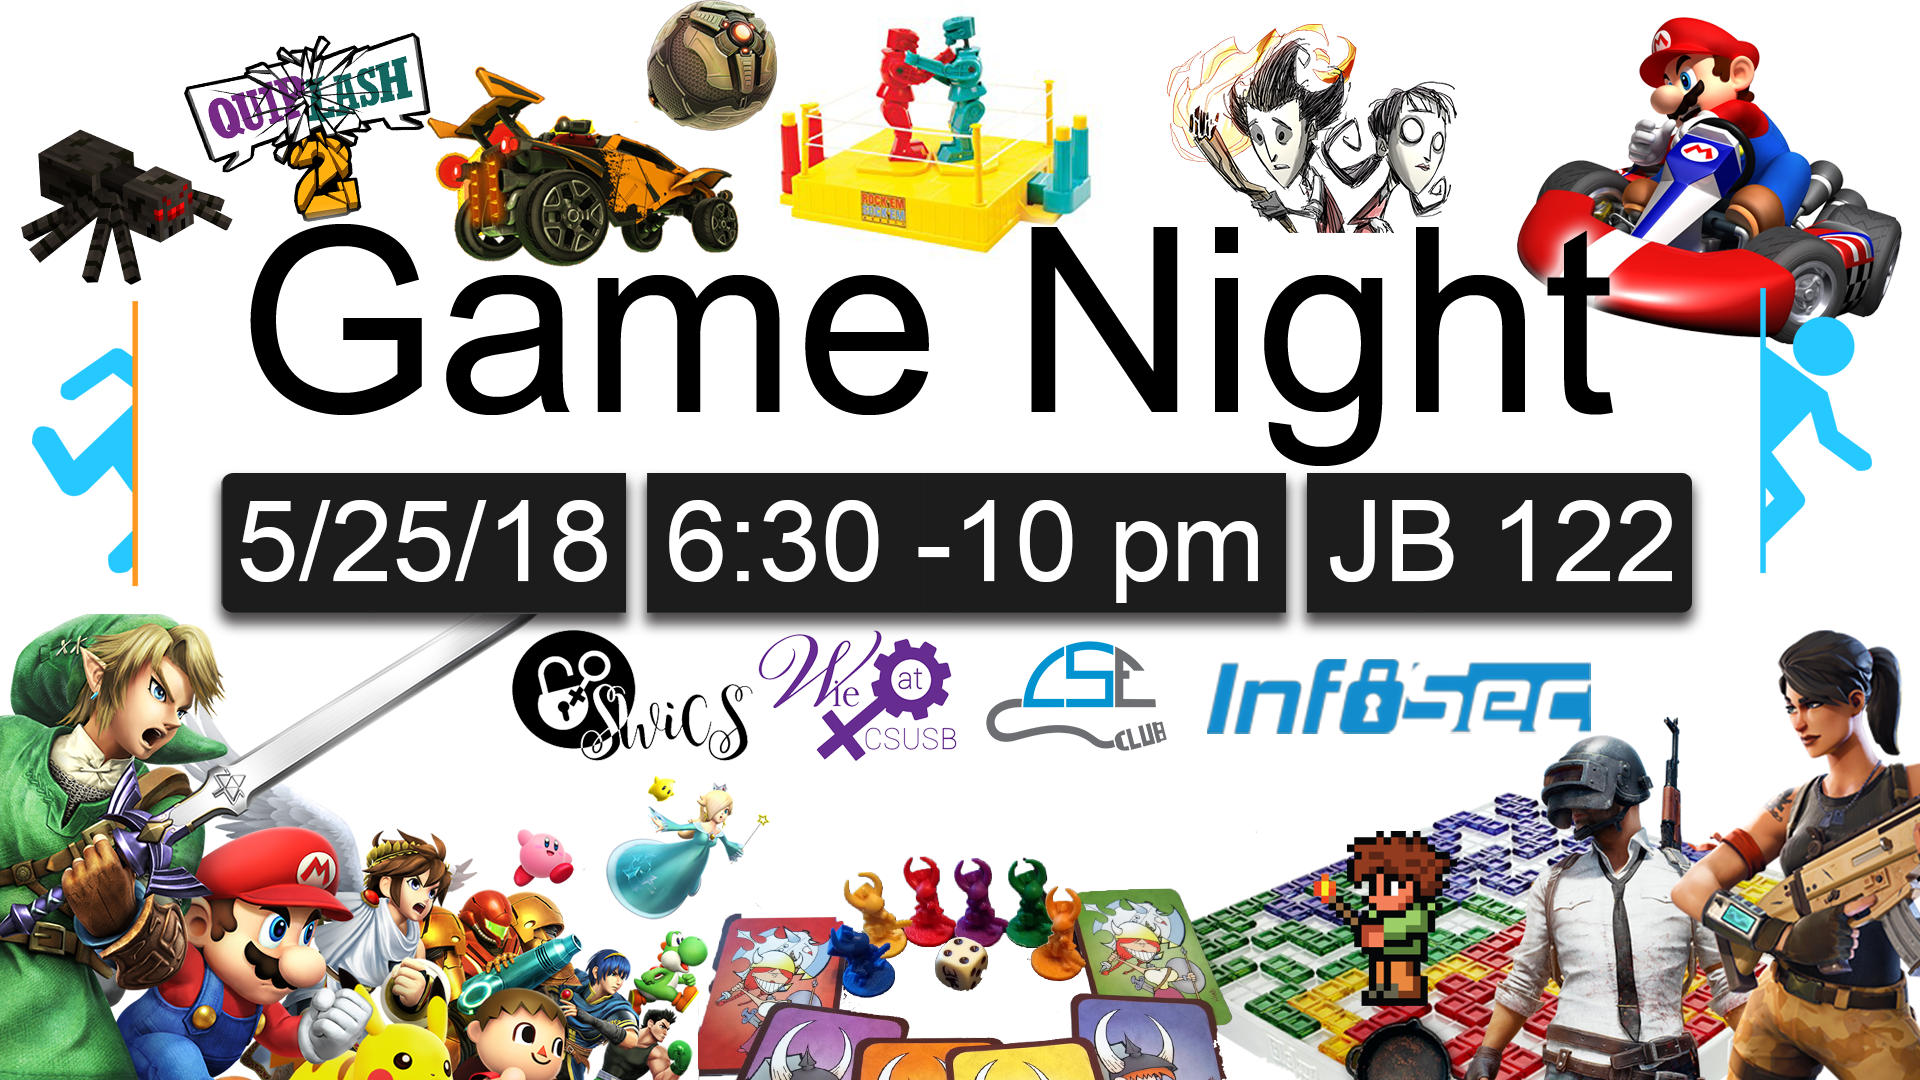
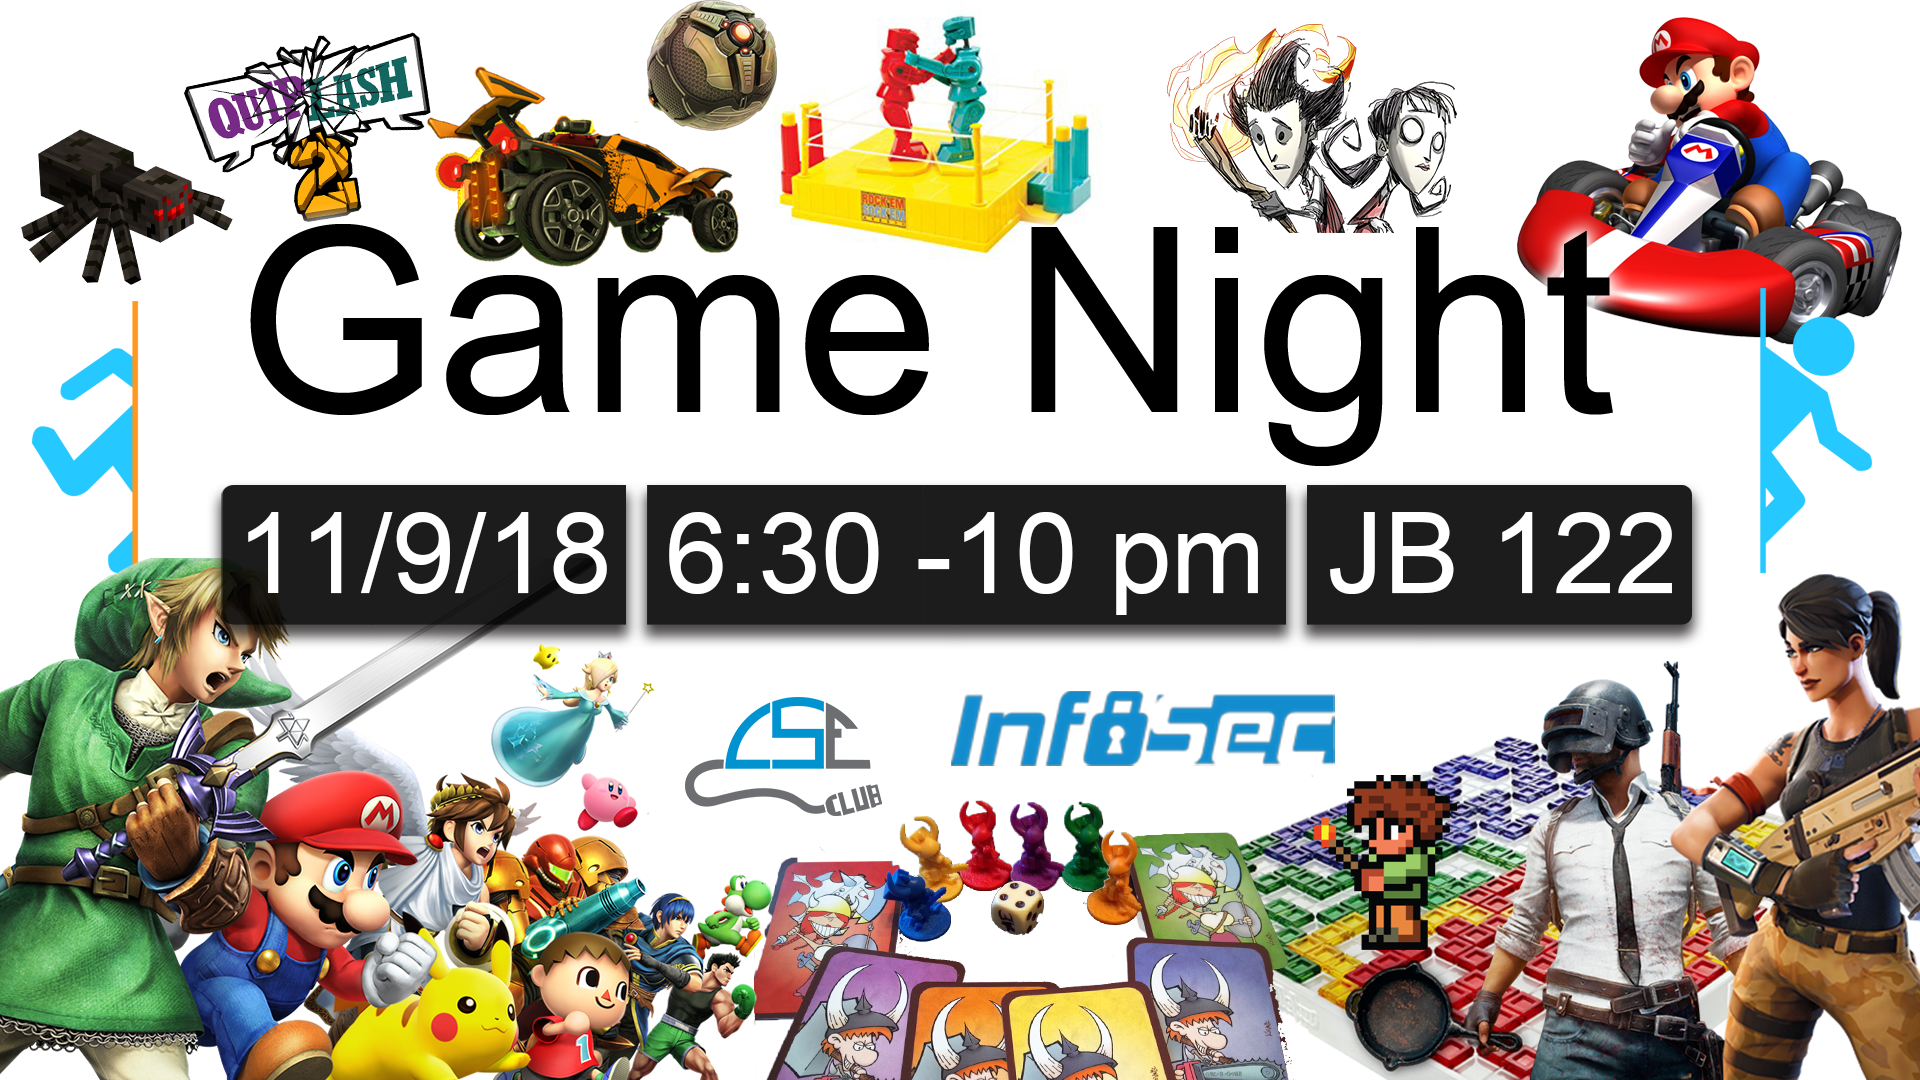
Fall 2018 Update 7

diff --git a/gamenight/index.html b/gamenight/index.html
@@ -193,16 +193,14 @@
 
 
         <br>
-        <h4> <b>Friday, May 25th, 6:00pm - 10:00pm</b></h4>
+        <h4> <b>Friday, November 9th, 6:30pm - 10:00pm</b></h4>
         <h4><b> Jack Brown Hall, Room JB 122</b></h4>
-        <h4><b> Ticket price: $10</b></h4>
+        <h4><b> Ticket price: $15 (Standard), $10 (Members)</b></h4>
         <!-- Portfolio Item Row -->
          <p>
 
 
-Dust off your consoles and board games and come hang out with your InfoSec, SWICS, WIE and CSE Club peeps. There will be food, 
-a Minecraft LAN server, refreshments, and several game tournaments throughout the night. Bring your Laptop and a copy of 
-Minecraft if you are interested in joining the Minecraft server! <br> <br>The first 10 people to bring a Console or Board Game to JB 122 between 6:15-6:30 pm will receive a 50% discount on their entry fee (Only 1 console or board game will count towards your discount)
+Dust off your consoles and board games and come hang out with your InfoSec, SWICS, WIE and CSE Club peeps. There will be food, refreshments, and several game tournaments throughout the night. <br> <br>The first 10 people to bring a Console or Board Game to JB 122 between 6:15-6:30 pm will receive a 50% discount on their entry fee (Only 1 console or board game will count towards your discount)
 
 </p>
         <br>
@@ -217,7 +215,7 @@ Minecraft if you are interested in joining the Minecraft server! <br> <br>The fi
             }
         }
         // Set the date we're counting down to
-        var countDownDate = new Date("May 25, 2018 18:00:00").getTime();
+        var countDownDate = new Date("November 9, 2018 18:00:00").getTime();
 
         // Update the count down every 1 second
         var x = setInterval(function() {
